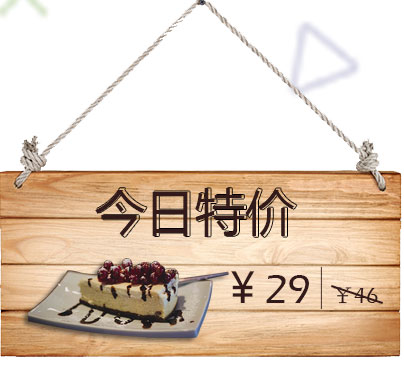
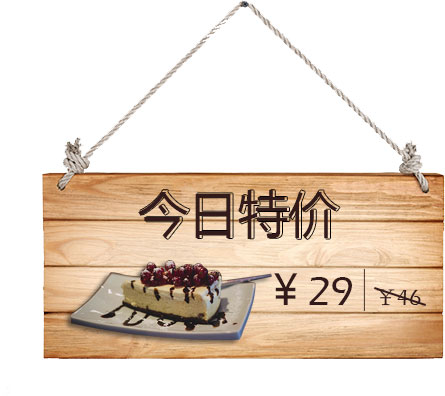
'HOT修改'

diff --git a/src/css/HOT_detail.css b/src/css/HOT_detail.css
@@ -1,3 +1,20 @@
+@keyframes shake{
+	0%{
+		transform:rotate(0deg);
+	}
+	25%{
+		transform:rotate(30deg);
+	}
+	50%{
+		transform:rotate(0deg);
+	}
+	75%{
+		transform:rotate(-30deg);
+	}
+	100%{
+		transform: rotate(0deg);
+	}
+}
 #pic_main{
 	max-width: 100%;
 	max-height:100%; 
@@ -28,11 +45,14 @@
 .HOT_price{
 	width: 300px;
 	height: 270px;
-	background-image: url(../imgs/HOT_detail/HOT_last_price.jpg);
+	background-image: url(../imgs/HOT_detail/HOT_last_price.png);
 	background-size: cover;
 	position: absolute;
 	top: 58px;
 	left: 384px;
+	transform-origin: center top;
+	animation: shake 4s ease infinite;
+
 }
 .HOT_cat{
 	width: 320px;
@@ -45,6 +65,8 @@
 	z-index: 5;
 	cursor: pointer;
 	transition: all 1s;
+	transform: rotateY(0deg);
+	transform-origin: left top;
 }
 .HOT_cat_cake{
 	width: 320px;

diff --git a/src/js/HOT_detail.js b/src/js/HOT_detail.js
@@ -6,12 +6,12 @@ require([],function(){
 	let cat = document.getElementsByClassName('HOT_cat')[0];
 	cat.onclick = function(){
 		if(toggle==0){
-		cat.style.opacity = 0;
+		cat.style.transform = ' rotateX(125deg)';
 		toggle = 1;
 		return;
 	}
 		if(toggle==1){
-		cat.style.opacity = '1';
+		cat.style.transform = ' rotateX(0deg)';
 		toggle = 0;
 		return;
 		}
